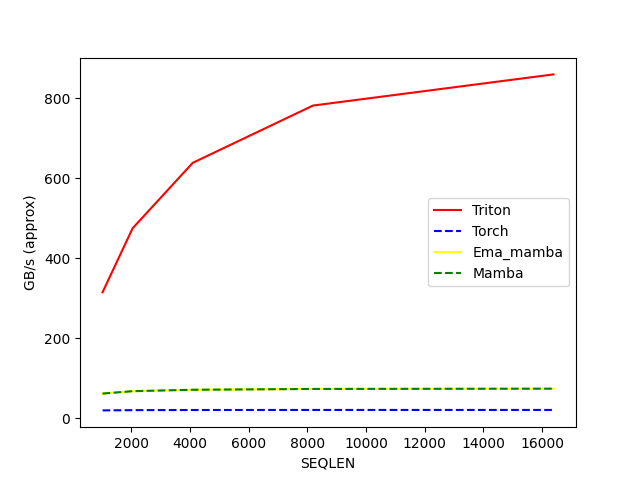
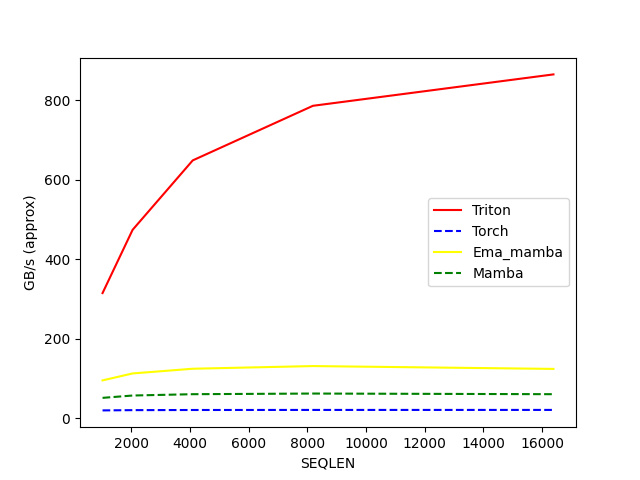
Add simplified chunk_state_fwd kernel

diff --git a/kernels/benchmarks/ema_scan/results.html b/kernels/benchmarks/ema_scan/results.html
@@ -1,11 +1,11 @@
 <html><body>
-<image src="ema_b1_head_dim64_nh8.bench.png"/>
-<image src="ema_b2_head_dim64_nh8.bench.png"/>
-<image src="ema_b4_head_dim64_nh8.bench.png"/>
-<image src="ema_b1_head_dim128_nh8.bench.png"/>
-<image src="ema_b2_head_dim128_nh8.bench.png"/>
-<image src="ema_b4_head_dim128_nh8.bench.png"/>
-<image src="ema_b1_head_dim256_nh8.bench.png"/>
-<image src="ema_b2_head_dim256_nh8.bench.png"/>
-<image src="ema_b4_head_dim256_nh8.bench.png"/>
+<image src="ema_b1_head_dim64_nh1.bench.png"/>
+<image src="ema_b2_head_dim64_nh1.bench.png"/>
+<image src="ema_b4_head_dim64_nh1.bench.png"/>
+<image src="ema_b1_head_dim128_nh1.bench.png"/>
+<image src="ema_b2_head_dim128_nh1.bench.png"/>
+<image src="ema_b4_head_dim128_nh1.bench.png"/>
+<image src="ema_b1_head_dim256_nh1.bench.png"/>
+<image src="ema_b2_head_dim256_nh1.bench.png"/>
+<image src="ema_b4_head_dim256_nh1.bench.png"/>
 </body></html>

diff --git a/kernels/ema_chunk_state.py b/kernels/ema_chunk_state.py
@@ -172,7 +172,7 @@ def _chunk_state_fwd_kernel(
     BLOCK_SIZE_M over the head dim 
     BLOCK_SIZE_N over the d_state
     BLOCK_SIZE_K over the Sequence length (chunk_size), but this is just a
-    hyper parameter to decide how you are stepping into the chunk size
+    hyper parameter to decide how you are tiling inside the chunk size
     """
     pid_bc = tl.program_id(axis=1)
     pid_c = pid_bc // batch
@@ -214,11 +214,16 @@ def _chunk_state_fwd_kernel(
     if HAS_SEQ_IDX:
         seq_idx_last = tl.load(seq_idx_ptr + (chunk_size_limit - 1) * stride_seq_idx_seqlen)
 
+    # --------------------------------------------------------------------------
+    # This entire section below is a fused and 
+    # Tiled matrix multiplication between X and B weighed by A factors
+    # The A factors are computed by cumsum_in_block/A_last_in_chunk
+    # --------------------------------------------------------------------------
     acc = tl.zeros((BLOCK_SIZE_M, BLOCK_SIZE_N), dtype=tl.float32)
-    # ! Compute within a chunk, the matmuls with that BLOCK_SIZE_K fused for x, b
     for k in range(0, chunk_size_limit, BLOCK_SIZE_K):
         x = tl.load(x_ptrs, mask=(offs_m[:, None] < hdim) & (offs_k[None, :] < chunk_size_limit - k), other=0.0)
         b = tl.load(b_ptrs, mask=(offs_k[:, None] < chunk_size_limit - k) & (offs_n[None, :] < dstate), other=0.0).to(tl.float32)
+        # (BLOCK_SIZE_K, )
         dA_cs_k = tl.load(dA_cumsum_ptrs, mask=offs_k < chunk_size_limit - k, other=0.0).to(tl.float32)
         if HAS_SEQ_IDX:
             seq_idx_k = tl.load(seq_idx_ptrs, mask=offs_k < chunk_size_limit - k, other=-1)
@@ -231,11 +236,16 @@ def _chunk_state_fwd_kernel(
             scale = tl.where((seq_idx_last >= 0) & (seq_idx_k == seq_idx_last), tl.exp(tl.minimum((dA_cs_last - dA_cs_k), 0.0)) * dt_k, 0.0)
         b *= scale[:, None]
         b = b.to(x_ptr.dtype.element_ty)
+
+        # (BLOCK_SIZE_M, BLOCK_SIZE_N)
         acc += tl.dot(x, b)
+
+        # update pointers
         x_ptrs += BLOCK_SIZE_K * stride_x_seqlen
         b_ptrs += BLOCK_SIZE_K * stride_b_seqlen
         dt_ptrs += BLOCK_SIZE_K * stride_dt_csize
         dA_cumsum_ptrs += BLOCK_SIZE_K * stride_dA_cs_csize
+
         if HAS_SEQ_IDX:
             seq_idx_ptrs += BLOCK_SIZE_K * stride_seq_idx_seqlen
     states = acc.to(states_ptr.dtype.element_ty)
@@ -247,6 +257,155 @@ def _chunk_state_fwd_kernel(
     c_mask = (offs_m[:, None] < hdim) & (offs_n[None, :] < dstate)
     tl.store(states_ptrs, states, mask=c_mask)
 
+chunk_state_fwd_configs = [
+        triton.Config({'BLOCK_SIZE_M': 128,  'BLOCK_SIZE_K': 64}, num_stages=3, num_warps=8),
+        triton.Config({'BLOCK_SIZE_M': 64,  'BLOCK_SIZE_K': 32}, num_stages=4, num_warps=4),
+        triton.Config({'BLOCK_SIZE_M': 128,  'BLOCK_SIZE_K': 32}, num_stages=4, num_warps=4),
+        triton.Config({'BLOCK_SIZE_M': 128, 'BLOCK_SIZE_K': 32}, num_stages=4, num_warps=4),
+        triton.Config({'BLOCK_SIZE_M': 64,  'BLOCK_SIZE_K': 32}, num_stages=4, num_warps=4),
+        triton.Config({'BLOCK_SIZE_M': 128,  'BLOCK_SIZE_K': 32}, num_stages=4, num_warps=4),
+        triton.Config({'BLOCK_SIZE_M': 64, 'BLOCK_SIZE_K': 32}, num_stages=5, num_warps=2),
+        triton.Config({'BLOCK_SIZE_M': 32, 'BLOCK_SIZE_K': 32}, num_stages=5, num_warps=2),
+        triton.Config({'BLOCK_SIZE_M': 64, 'BLOCK_SIZE_K': 32}, num_stages=4, num_warps=2),
+    ]
+@triton.autotune(
+    configs=[
+        triton.Config({'BLOCK_SIZE_M': 256,  'BLOCK_SIZE_K': 64}, num_stages=3, num_warps=8),
+        triton.Config({'BLOCK_SIZE_M': 128,  'BLOCK_SIZE_K': 32}, num_stages=4, num_warps=4),
+        triton.Config({'BLOCK_SIZE_M': 256,  'BLOCK_SIZE_K': 32}, num_stages=4, num_warps=4),
+        triton.Config({'BLOCK_SIZE_M': 256, 'BLOCK_SIZE_K': 32}, num_stages=4, num_warps=4),
+        triton.Config({'BLOCK_SIZE_M': 128,  'BLOCK_SIZE_K': 32}, num_stages=4, num_warps=4),
+        triton.Config({'BLOCK_SIZE_M': 256,  'BLOCK_SIZE_K': 32}, num_stages=4, num_warps=4),
+        triton.Config({'BLOCK_SIZE_M': 128, 'BLOCK_SIZE_K': 32}, num_stages=5, num_warps=2),
+        triton.Config({'BLOCK_SIZE_M': 64, 'BLOCK_SIZE_K': 32}, num_stages=5, num_warps=2),
+        triton.Config({'BLOCK_SIZE_M': 128, 'BLOCK_SIZE_K': 32}, num_stages=4, num_warps=2),
+    ],
+    key=['hdim', 'dstate', 'chunk_size'],
+)
+@triton.jit
+def _simplified_chunk_state_fwd_kernel(
+    # Pointers to matrices
+    x_ptr, b_ptr, states_ptr, dt_ptr, dA_cumsum_ptr, seq_idx_ptr,
+    # Matrix dimensions
+    hdim, dstate, chunk_size,
+    batch, seqlen, nheads_ngroups_ratio,
+    # Strides
+    stride_x_batch, stride_x_seqlen, stride_x_head, stride_x_hdim,
+    stride_b_batch, stride_b_seqlen, stride_b_head, stride_b_dstate,
+    stride_states_batch, stride_states_chunk, stride_states_head, stride_states_hdim, stride_states_dstate,
+    stride_dt_batch, stride_dt_chunk, stride_dt_head, stride_dt_csize,
+    stride_dA_cs_batch, stride_dA_cs_chunk, stride_dA_cs_head, stride_dA_cs_csize,
+    stride_seq_idx_batch, stride_seq_idx_seqlen,
+    # Meta-parameters
+    HAS_SEQ_IDX: tl.constexpr,
+    BLOCK_SIZE_M: tl.constexpr,
+    BLOCK_SIZE_K: tl.constexpr,
+):
+    """
+    X : b l h p  = b c q h p
+    B: b l g d = b l 1 1  = b c q 1 1
+    A_cs : b h c q
+    dt: b h c q
+    
+    
+    BLOCK_SIZE_M over the head dim 
+    BLOCK_SIZE_N over the d_state
+    BLOCK_SIZE_K over the Sequence length (chunk_size), but this is just a
+    hyper parameter to decide how you are tiling inside the chunk size
+    """
+    pid_bc = tl.program_id(axis=1)
+    pid_c = pid_bc // batch
+    pid_b = pid_bc - pid_c * batch
+    pid_h = tl.program_id(axis=2)
+
+
+    # ----------------------- OPTIMIZATION ----------------------
+    # pid_m = tl.program_id(axis=0) // num_pid_n
+    # pid_n = tl.program_id(axis=0) % num_pid_n
+    # ----------------------- OPTIMIZATION ----------------------
+
+    pid_m = tl.program_id(axis=0)
+
+    b_ptr += pid_b * stride_b_batch + pid_c * chunk_size * stride_b_seqlen + (pid_h // nheads_ngroups_ratio) * stride_b_head
+    x_ptr += pid_b * stride_x_batch + pid_c * chunk_size * stride_x_seqlen + pid_h * stride_x_head
+    dt_ptr += pid_b * stride_dt_batch + pid_c * stride_dt_chunk + pid_h * stride_dt_head
+    dA_cumsum_ptr += pid_b * stride_dA_cs_batch + pid_c * stride_dA_cs_chunk + pid_h * stride_dA_cs_head
+    if HAS_SEQ_IDX:
+        seq_idx_ptr += pid_b * stride_seq_idx_batch + pid_c * chunk_size * stride_seq_idx_seqlen
+
+    offs_m = pid_m * BLOCK_SIZE_M + tl.arange(0, BLOCK_SIZE_M)
+
+    # ----------------------- OPTIMIZATION ----------------------
+    # offs_n = pid_n * BLOCK_SIZE_N + tl.arange(0, BLOCK_SIZE_N)
+    # BLOCK_SIZE_N is now just dstate = 1
+    offs_n = tl.arange(0, 1) # dstate = 1
+    # ----------------------- OPTIMIZATION ----------------------
+
+    offs_k = tl.arange(0, BLOCK_SIZE_K)
+
+    # shape = (BLOCK_SIZE_M, BLOCK_SIZE_K) # over head_dim, seqlen
+    x_ptrs = x_ptr + (offs_m[:, None] * stride_x_hdim + offs_k[None, :] * stride_x_seqlen)
+
+    # shape = (BLOCK_SIZE_N, BLOCK_SIZE_K) # over d_state, seqlen
+    b_ptrs = b_ptr + (offs_n[None, :] * stride_b_dstate + offs_k[:, None] * stride_b_seqlen)
+
+    # shape = (BLOCK_SIZE_K) # over seqlen
+    dt_ptrs = dt_ptr + offs_k * stride_dt_csize
+
+    # This is loading the final scalar in the cumsum
+    dA_cs_last = tl.load(dA_cumsum_ptr + (chunk_size - 1) * stride_dA_cs_csize).to(tl.float32)
+
+    # shape = (BLOCK_SIZE_K)
+    dA_cumsum_ptrs = dA_cumsum_ptr + offs_k * stride_dA_cs_csize
+    if HAS_SEQ_IDX:
+        seq_idx_ptrs = seq_idx_ptr + offs_k * stride_seq_idx_seqlen
+
+    chunk_size_limit = min(chunk_size, seqlen - pid_c * chunk_size)
+    if HAS_SEQ_IDX:
+        seq_idx_last = tl.load(seq_idx_ptr + (chunk_size_limit - 1) * stride_seq_idx_seqlen)
+
+    # --------------------------------------------------------------------------
+    # This entire section below is a fused and 
+    # Tiled matrix multiplication between X and B weighed by A factors
+    # The A factors are computed by cumsum_in_block/A_last_in_chunk
+    # --------------------------------------------------------------------------
+    acc = tl.zeros((BLOCK_SIZE_M, 1), dtype=tl.float32)
+    for k in range(0, chunk_size_limit, BLOCK_SIZE_K):
+        x = tl.load(x_ptrs, mask=(offs_m[:, None] < hdim) & (offs_k[None, :] < chunk_size_limit - k), other=0.0)
+        b = tl.load(b_ptrs, mask=(offs_k[:, None] < chunk_size_limit - k) & (offs_n[None, :] < dstate), other=0.0).to(tl.float32)
+        # (BLOCK_SIZE_K, )
+        dA_cs_k = tl.load(dA_cumsum_ptrs, mask=offs_k < chunk_size_limit - k, other=0.0).to(tl.float32)
+        if HAS_SEQ_IDX:
+            seq_idx_k = tl.load(seq_idx_ptrs, mask=offs_k < chunk_size_limit - k, other=-1)
+        dt_k = tl.load(dt_ptrs, mask=offs_k < chunk_size_limit - k, other=0.0).to(tl.float32)
+        if not HAS_SEQ_IDX:
+            # scale = tl.exp((dA_cs_last - dA_cs_k)) * dt_k
+            scale = tl.exp(tl.minimum((dA_cs_last - dA_cs_k), 0.0)) * dt_k
+        else:
+            # scale = tl.where(seq_idx_k == seq_idx_last, tl.exp((dA_cs_last - dA_cs_k)) * dt_k, 0.0)
+            scale = tl.where((seq_idx_last >= 0) & (seq_idx_k == seq_idx_last), tl.exp(tl.minimum((dA_cs_last - dA_cs_k), 0.0)) * dt_k, 0.0)
+        b *= scale[:, None]
+        b = b.to(x_ptr.dtype.element_ty)
+
+        # (BLOCK_SIZE_M, BLOCK_SIZE_N)
+        acc += tl.dot(x, b)
+
+        # update pointers
+        x_ptrs += BLOCK_SIZE_K * stride_x_seqlen
+        b_ptrs += BLOCK_SIZE_K * stride_b_seqlen
+        dt_ptrs += BLOCK_SIZE_K * stride_dt_csize
+        dA_cumsum_ptrs += BLOCK_SIZE_K * stride_dA_cs_csize
+
+        if HAS_SEQ_IDX:
+            seq_idx_ptrs += BLOCK_SIZE_K * stride_seq_idx_seqlen
+    states = acc.to(states_ptr.dtype.element_ty)
+
+    states_ptr += pid_b * stride_states_batch + pid_c * stride_states_chunk + pid_h * stride_states_head
+    offs_m = pid_m * BLOCK_SIZE_M + tl.arange(0, BLOCK_SIZE_M)
+    offs_n = tl.arange(0, 1)
+    states_ptrs = states_ptr + (offs_m[:, None] * stride_states_hdim + offs_n[None, :] * stride_states_dstate)
+    c_mask = (offs_m[:, None] < hdim) & (offs_n[None, :] < dstate)
+    tl.store(states_ptrs, states, mask=c_mask)
 
 def _chunk_state_fwd(B, x, dt, dA_cumsum, seq_idx=None, states=None, states_in_fp32=True):
     batch, seqlen, nheads, headdim = x.shape
@@ -279,6 +438,40 @@ def _chunk_state_fwd(B, x, dt, dA_cumsum, seq_idx=None, states=None, states_in_f
             HAS_SEQ_IDX=seq_idx is not None,
         )
     return states
+
+def _simplified_chunk_state_fwd(B, x, dt, dA_cumsum, seq_idx=None, states=None, states_in_fp32=True):
+    batch, seqlen, nheads, headdim = x.shape
+    _, _, nchunks, chunk_size = dt.shape
+    _, _, ngroups, dstate = B.shape
+    assert nheads % ngroups == 0
+    assert B.shape == (batch, seqlen, ngroups, dstate)
+    assert dt.shape == (batch, nheads, nchunks, chunk_size)
+    assert dA_cumsum.shape == dt.shape
+    if seq_idx is not None:
+        assert seq_idx.shape == (batch, seqlen)
+    if states is not None:
+        assert states.shape == (batch, nchunks, nheads, headdim, dstate)
+    else:
+        states_dtype = torch.float32 if states_in_fp32 else B.dtype
+        states = torch.empty((batch, nchunks, nheads, headdim, dstate), device=x.device, dtype=states_dtype)
+    grid = lambda META: (triton.cdiv(headdim, META['BLOCK_SIZE_M']),
+                    batch * nchunks, nheads)
+    with torch.cuda.device(x.device.index):
+        _simplified_chunk_state_fwd_kernel[grid](
+            x, B, states, dt, dA_cumsum, seq_idx,
+            headdim, dstate, chunk_size,
+            batch, seqlen, nheads // ngroups,
+            x.stride(0), x.stride(1), x.stride(2), x.stride(3),
+            B.stride(0), B.stride(1), B.stride(2), B.stride(-1),
+            states.stride(0), states.stride(1), states.stride(2), states.stride(3), states.stride(4),
+            dt.stride(0), dt.stride(2), dt.stride(1), dt.stride(3),
+            dA_cumsum.stride(0), dA_cumsum.stride(2), dA_cumsum.stride(1), dA_cumsum.stride(3),
+            *((seq_idx.stride(0), seq_idx.stride(1)) if seq_idx is not None else (0, 0)),
+            HAS_SEQ_IDX=seq_idx is not None,
+        )
+    return states
+
+
 
 
 # -------------------------------------------------

diff --git a/kernels/ema_combined.py b/kernels/ema_combined.py
@@ -2,7 +2,7 @@
 import torch
 from einops import rearrange, repeat
 
-from kernels.ema_chunk_state import _chunk_cumsum_fwd, _chunk_state_fwd, chunk_state_varlen
+from kernels.ema_chunk_state import _chunk_cumsum_fwd, _chunk_state_fwd, chunk_state_varlen, _simplified_chunk_state_fwd
 from kernels.ema_state_passing import _state_passing_fwd
 from kernels.ema_bmm import _bmm_chunk_fwd
 from kernels.ema_chunk_scan import _chunk_scan_fwd
@@ -41,7 +41,7 @@ def _ema_chunk_scan_combined_fwd(x, dt, A, B, C, chunk_size, D=None, z=None, dt_
     # dA_cumsum_tmp1, dt_tmp1 = _chunk_cumsum_fwd(dt[:, 147:], A, chunk_size, dt_bias=dt_bias, dt_softplus=dt_softplus)
     # dA_cumsum_tmp2, dt_tmp2 = _chunk_cumsum_fwd(dt[:, 147:256], A, chunk_size, dt_bias=dt_bias, dt_softplus=dt_softplus)
     dA_cumsum, dt = _chunk_cumsum_fwd(dt, A, chunk_size, dt_bias=dt_bias, dt_softplus=dt_softplus, dt_limit=dt_limit)
-    states = _chunk_state_fwd(B, x, dt, dA_cumsum, seq_idx=seq_idx, states_in_fp32=True)
+    states = _simplified_chunk_state_fwd(B, x, dt, dA_cumsum, seq_idx=seq_idx, states_in_fp32=True)
     # states_tmp0 = _chunk_state_fwd(B[:, :147], x[:, :147], dt_tmp0, dA_cumsum_tmp0, states_in_fp32=True)
     # states_tmp1 = _chunk_state_fwd(B[:, 147:], x[:, 147:], dt_tmp1, dA_cumsum_tmp1, states_in_fp32=True)
     # states_tmp2 = _chunk_state_fwd(B[:, 147:256], x[:, 147:256], dt_tmp2, dA_cumsum_tmp2, states_in_fp32=True)

diff --git a/kernels/benchmarks/ema_bench.py b/kernels/benchmarks/ema_bench.py
@@ -9,7 +9,8 @@ from mamba_ssm.ops.triton.ssd_combined import mamba_chunk_scan_combined
 from einops import rearrange, repeat
 
 
-MAMBA_NUM_HEADS = 8
+MAMBA_NUM_HEADS = 1
+MAMBA_CHUNK_SIZE = 256
 
 def ema_simple(X, P):
 
@@ -56,7 +57,7 @@ for head_dim in [64, 128, 256]:
                     "BATCH": batch_size,
                     "HEAD_DIM": head_dim,
                     "MAMBA_HEAD_DIM": head_dim / MAMBA_NUM_HEADS, # use 2 heads
-                    "MAMBA_CHUNK_SIZE": 128,
+                    "MAMBA_CHUNK_SIZE": MAMBA_CHUNK_SIZE,
                     "device": "cuda",
                     
                 },
